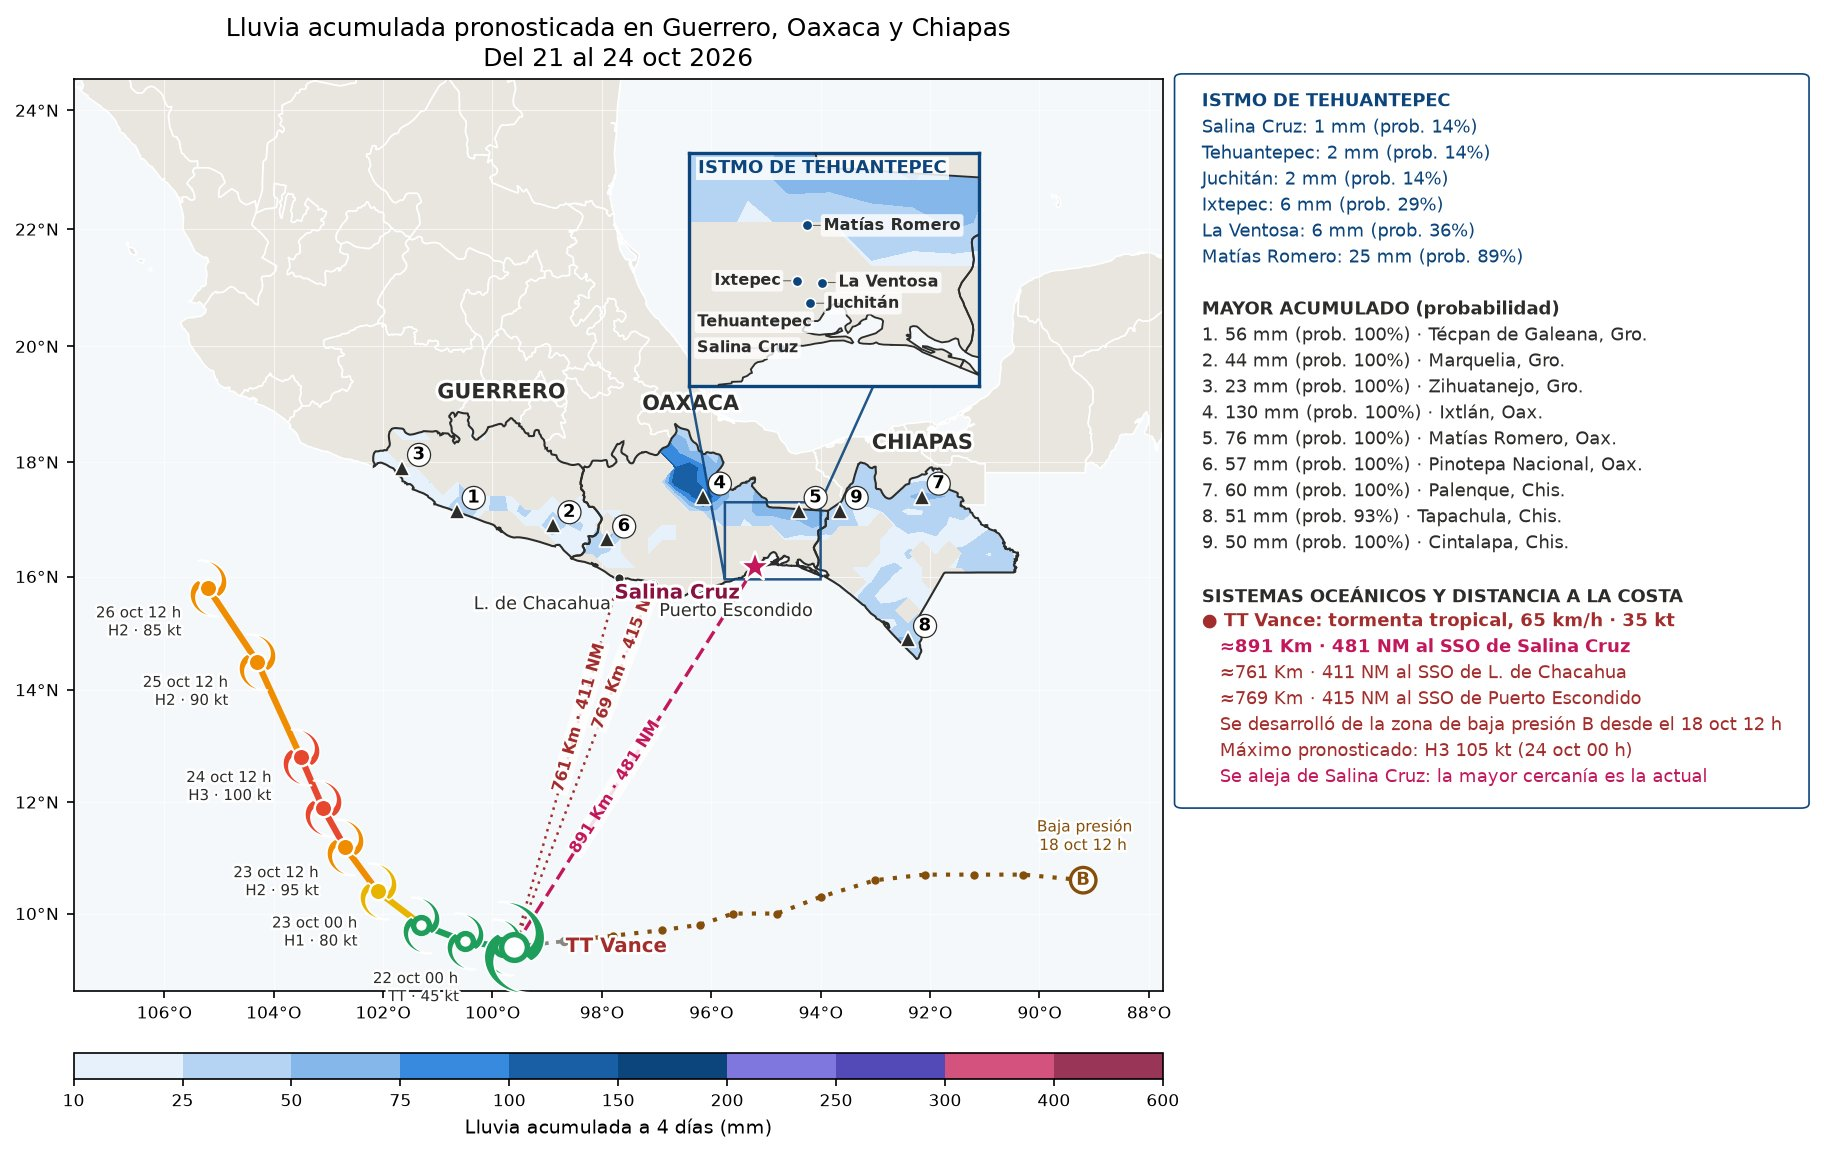
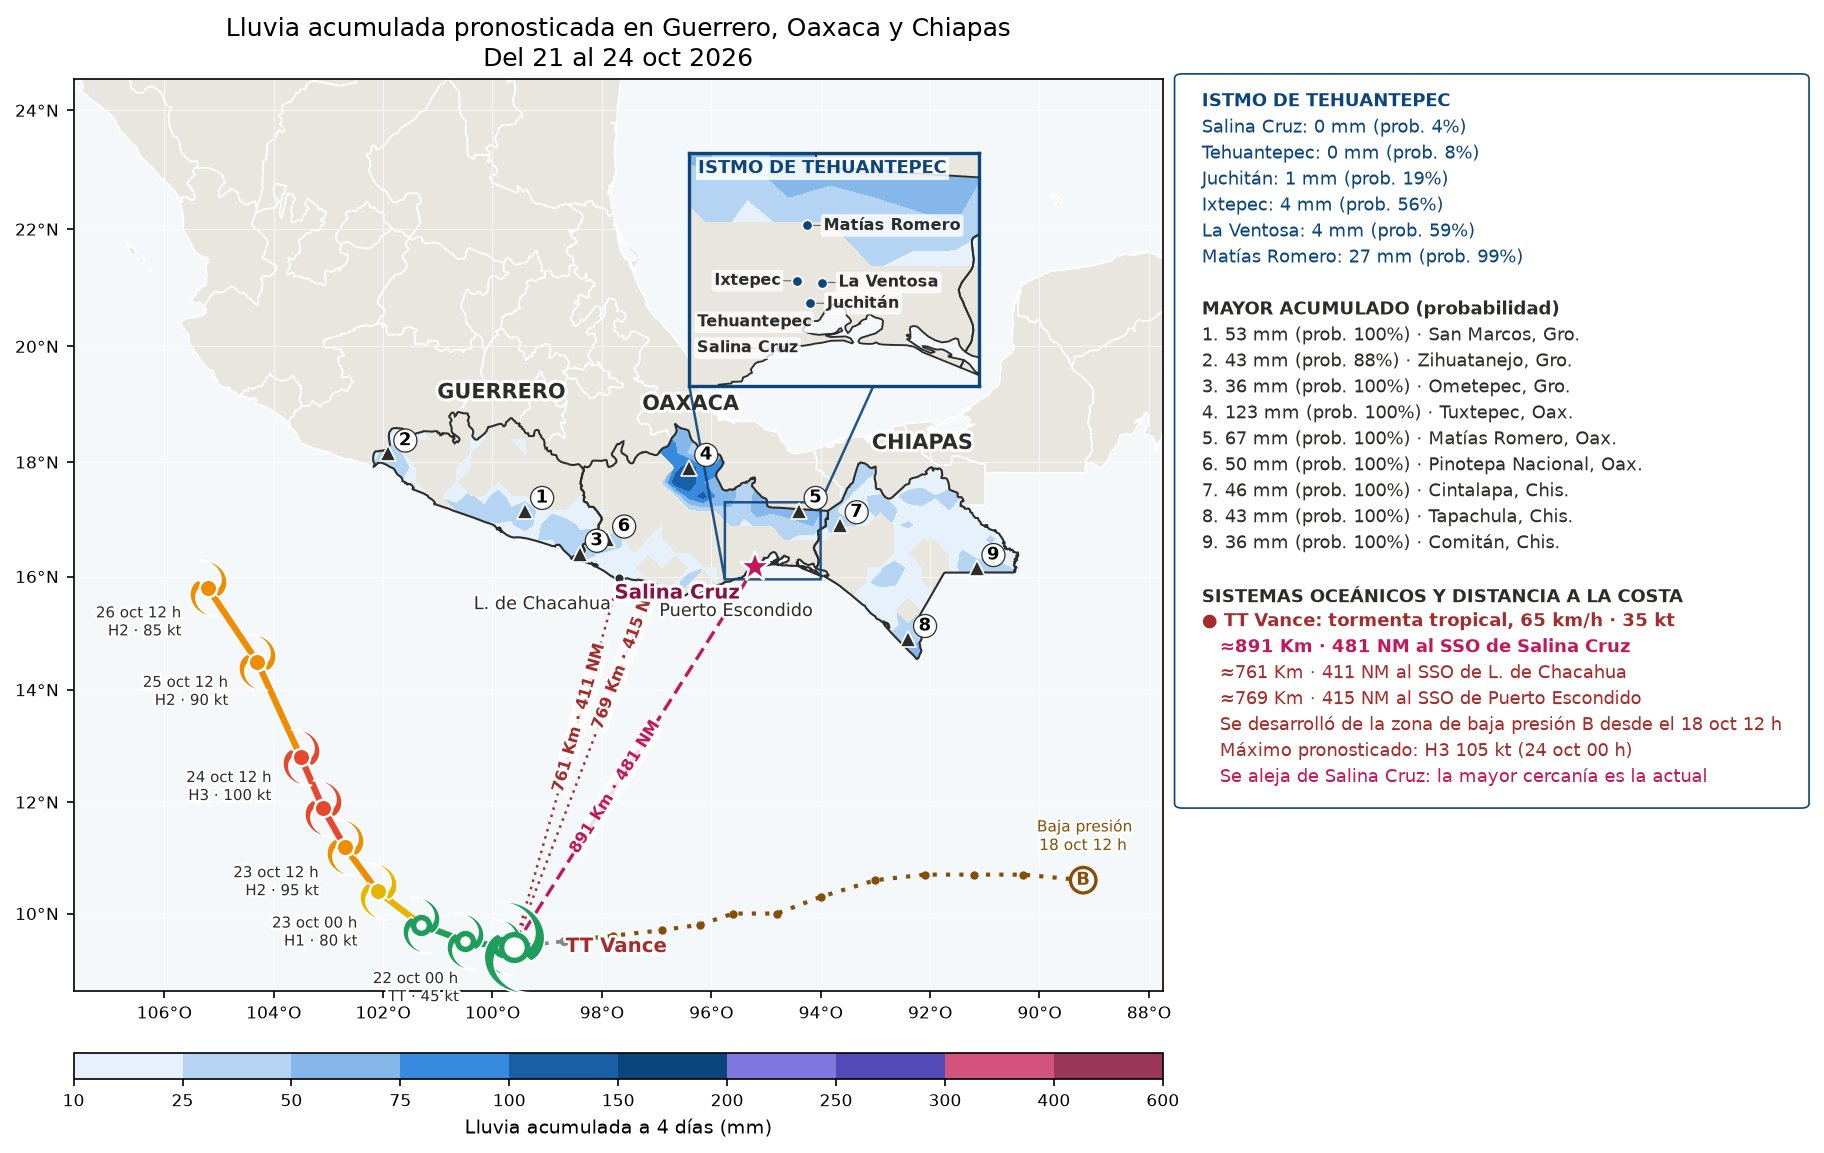
Monitor 21/10 17:50 (mapas nuevos)

diff --git a/index.html b/index.html
@@ -62,7 +62,7 @@ pre{overflow-x:auto;font-size:.75rem;background:var(--bg);padding:10px;border-ra
 <section class="t" id="sec_log"><details><summary>Registro (últimas líneas)</summary><pre id="log"></pre></details></section>
 </main>
 <div id="zoom"><img alt=""></div>
-<script id="datos" type="application/json">{"generado": "2026-10-21T17:17:03.782364", "ultima_revision": "2026-10-21T17:17:03.757284", "decision": "cambios menores en espera", "ultima_imagen": "2026-10-21T14:37:14.543348", "motivo_imagen": "CAMBIO SIGNIFICATIVO: Vance cambió de categoría DT → TT", "pendientes": ["modelo"], "intervalo_h": 3, "resumen": {"ciclones": {"ep222026": {"nombre": "Vance", "kt": 35, "cat": "TT"}}, "zonas": []}, "historial": [{"fecha": "2026-10-20T17:39:54.487717", "motivo": "manual (--forzar)"}, {"fecha": "2026-10-20T17:45:41.837918", "motivo": "manual (--forzar)"}, {"fecha": "2026-10-20T17:52:21.020479", "motivo": "manual (--forzar)"}, {"fecha": "2026-10-20T18:27:13.446339", "motivo": "manual (--forzar)"}, {"fecha": "2026-10-20T18:41:26.135377", "motivo": "manual (--forzar)"}, {"fecha": "2026-10-20T18:51:11.782376", "motivo": "manual (--forzar)"}, {"fecha": "2026-10-20T22:00:47.413328", "motivo": "cambios acumulados en 3 h: modelo"}, {"fecha": "2026-10-21T01:07:16.707616", "motivo": "cambios acumulados en 3 h: zonas"}, {"fecha": "2026-10-21T04:20:30.390932", "motivo": "cambios acumulados en 3 h: modelo"}, {"fecha": "2026-10-21T07:27:16.278888", "motivo": "cambios acumulados en 3 h: zonas"}, {"fecha": "2026-10-21T08:50:23.611108", "motivo": "CAMBIO SIGNIFICATIVO: Twenty-Two-E entró a la jurisdicción (DT)"}, {"fecha": "2026-10-21T10:39:57.224515", "motivo": "manual (--forzar)"}, {"fecha": "2026-10-21T11:09:36.695799", "motivo": "manual (--forzar)"}, {"fecha": "2026-10-21T12:47:14.163333", "motivo": "CAMBIO SIGNIFICATIVO: una zona de baja presión dejó de afectar la jurisdicción"}, {"fecha": "2026-10-21T14:37:14.543348", "motivo": "CAMBIO SIGNIFICATIVO: Vance cambió de categoría DT → TT"}], "imagenes": {"lluvia": {"src": "lluvia.jpg?v=202610211437", "fecha": "2026-10-21T14:37:07.918615"}, "viento": {"src": "viento.jpg?v=202610211437", "fecha": "2026-10-21T14:37:12.653657"}}, "log": [], "umbral_av": 50, "umbral_mal": 110}</script>
+<script id="datos" type="application/json">{"generado": "2026-10-21T17:50:14.387829", "ultima_revision": "2026-10-21T17:50:14.361831", "decision": "imágenes generadas", "ultima_imagen": "2026-10-21T17:50:14.361831", "motivo_imagen": "cambios acumulados en 3 h: modelo", "pendientes": [], "intervalo_h": 3, "resumen": {"ciclones": {"ep222026": {"nombre": "Vance", "kt": 35, "cat": "TT"}}, "zonas": []}, "historial": [{"fecha": "2026-10-20T17:45:41.837918", "motivo": "manual (--forzar)"}, {"fecha": "2026-10-20T17:52:21.020479", "motivo": "manual (--forzar)"}, {"fecha": "2026-10-20T18:27:13.446339", "motivo": "manual (--forzar)"}, {"fecha": "2026-10-20T18:41:26.135377", "motivo": "manual (--forzar)"}, {"fecha": "2026-10-20T18:51:11.782376", "motivo": "manual (--forzar)"}, {"fecha": "2026-10-20T22:00:47.413328", "motivo": "cambios acumulados en 3 h: modelo"}, {"fecha": "2026-10-21T01:07:16.707616", "motivo": "cambios acumulados en 3 h: zonas"}, {"fecha": "2026-10-21T04:20:30.390932", "motivo": "cambios acumulados en 3 h: modelo"}, {"fecha": "2026-10-21T07:27:16.278888", "motivo": "cambios acumulados en 3 h: zonas"}, {"fecha": "2026-10-21T08:50:23.611108", "motivo": "CAMBIO SIGNIFICATIVO: Twenty-Two-E entró a la jurisdicción (DT)"}, {"fecha": "2026-10-21T10:39:57.224515", "motivo": "manual (--forzar)"}, {"fecha": "2026-10-21T11:09:36.695799", "motivo": "manual (--forzar)"}, {"fecha": "2026-10-21T12:47:14.163333", "motivo": "CAMBIO SIGNIFICATIVO: una zona de baja presión dejó de afectar la jurisdicción"}, {"fecha": "2026-10-21T14:37:14.543348", "motivo": "CAMBIO SIGNIFICATIVO: Vance cambió de categoría DT → TT"}, {"fecha": "2026-10-21T17:50:14.361831", "motivo": "cambios acumulados en 3 h: modelo"}], "imagenes": {"lluvia": {"src": "lluvia.jpg?v=202610211750", "fecha": "2026-10-21T17:50:07.212678"}, "viento": {"src": "viento.jpg?v=202610211750", "fecha": "2026-10-21T17:50:12.536427"}}, "log": [], "umbral_av": 50, "umbral_mal": 110}</script>
 <script>
 const D = JSON.parse(document.getElementById("datos").textContent);
 const $ = id => document.getElementById(id);
